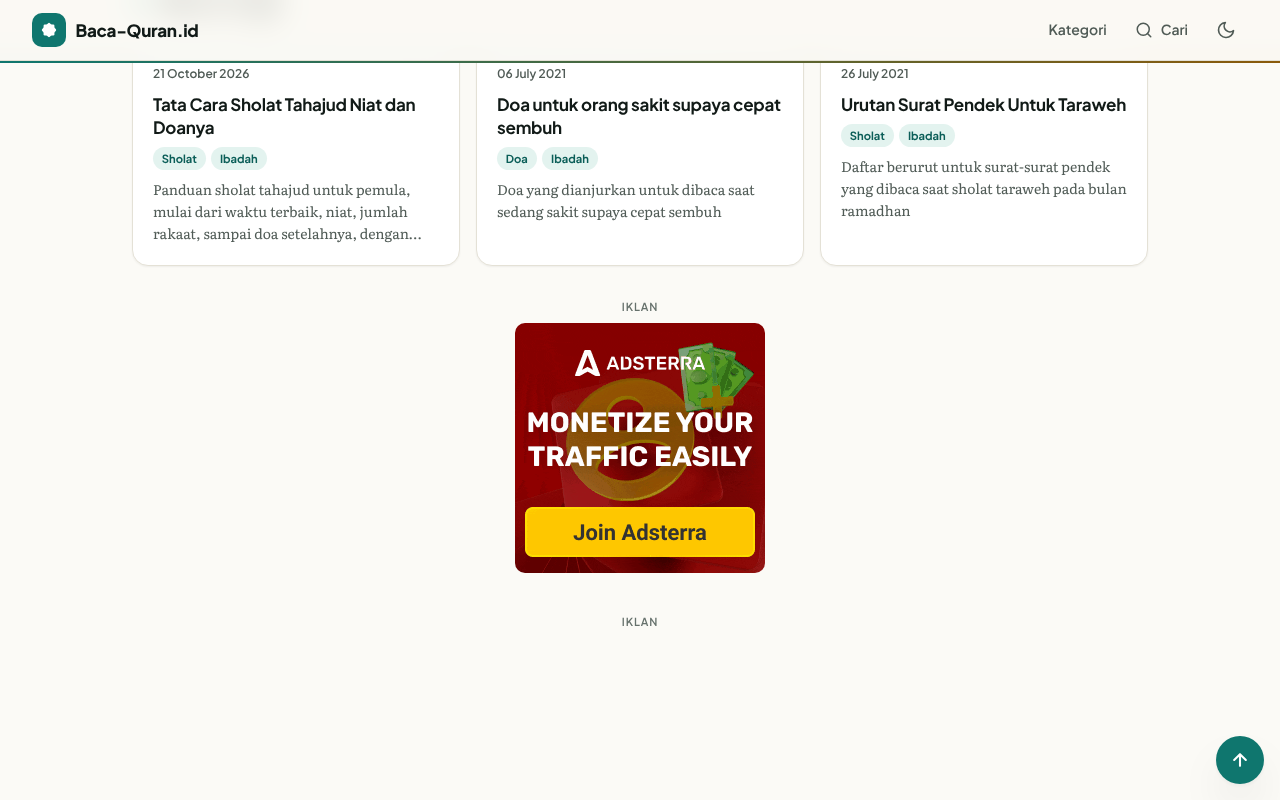
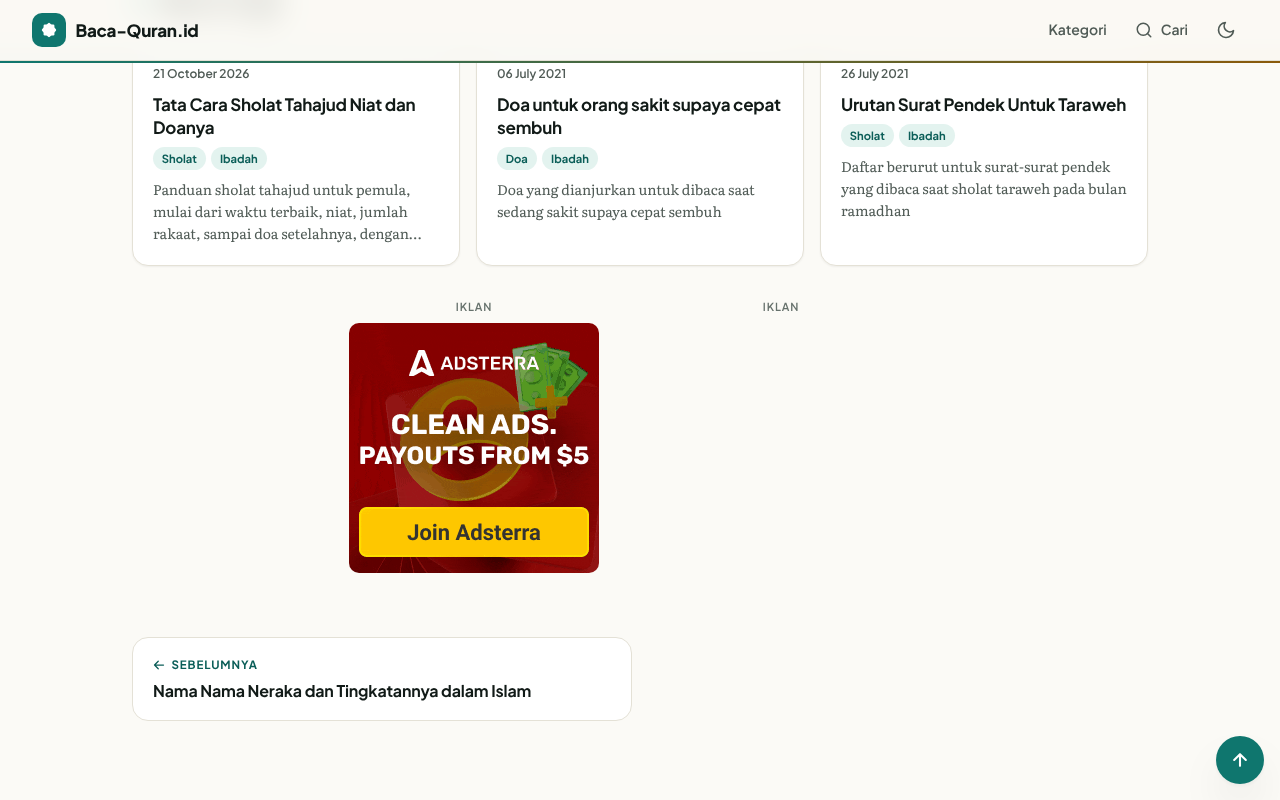
Add 300x250 and 160x600 Adsterra iframe units, remove asiafilm.org promo
- 300x250 sits next to the GIF banner at the end of articles
- 160x600 sits in the wide-screen sidebar
- Both run in sandboxed srcdoc iframes so atOptions cannot clash
- Remove the asiafilm.org promo card (config, component, CSS, docs)
- Refresh PR screenshots

Claude-Session: https://claude.ai/code/session_01RDTijWFK62R19iKJ9jHMqC

Changed region(s): [[0.25, 0.375, 0.625, 0.7188], [0.125, 0.8125, 0.4062, 0.875]]

diff --git a/src/components/PartnerAd.js b/src/components/PartnerAd.js
@@ -1,26 +1,40 @@
 import React from 'react';
 
-import { PARTNER_ADS } from '../config/ads';
+import { PARTNER_ADS, PARTNER_AD_SCRIPT_HOST } from '../config/ads';
 
 const REL = 'nofollow sponsored noopener noreferrer';
 
-// A plain-link partner ad, labelled "Iklan" so readers can tell it from content.
+// Document for an Adsterra iframe unit. The unit reads a global `atOptions`, so it
+// runs in its own iframe: it cannot clash with other ads or with page navigation.
+const unitDoc = ({ key, width, height }) =>
+  '<!doctype html><html><head><meta charset="utf-8"><style>html,body{margin:0;overflow:hidden}</style></head><body>' +
+  `<script>atOptions={'key':'${key}','format':'iframe','height':${height},'width':${width},'params':{}};</script>` +
+  `<script src="${PARTNER_AD_SCRIPT_HOST}${key}"></script>` +
+  '</body></html>';
+
+// A partner ad, labelled "Iklan" so readers can tell it from content.
 // - variant "banner": image banner with a fixed size (no layout shift)
-// - variant "promo": small text card
+// - variant "rect" / "tower": Adsterra iframe units (300x250 / 160x600)
 // Renders nothing when partner ads are disabled in src/config/ads.js.
 const PartnerAd = ({ variant = 'banner', className = '' }) => {
   if (!PARTNER_ADS.enabled) return null;
 
-  if (variant === 'promo') {
-    const { href, title, text, cta } = PARTNER_ADS.promo;
+  if (variant === 'rect' || variant === 'tower') {
+    const unit = variant === 'rect' ? PARTNER_ADS.rect : PARTNER_ADS.tower;
     return (
-      <aside className={`partner-ad partner-ad--promo ${className}`.trim()} aria-label="Iklan">
+      <aside className={`partner-ad partner-ad--${variant} ${className}`.trim()} aria-label="Iklan">
         <span className="ad-slot__label">Iklan</span>
-        <a className="partner-ad__card" href={href} target="_blank" rel={REL}>
-          <span className="partner-ad__title">{title}</span>
-          <span className="partner-ad__text">{text}</span>
-          <span className="partner-ad__cta">{cta} &rarr;</span>
-        </a>
+        <iframe
+          title="Iklan"
+          className="partner-ad__frame"
+          width={unit.width}
+          height={unit.height}
+          srcDoc={unitDoc(unit)}
+          loading="lazy"
+          scrolling="no"
+          sandbox="allow-scripts allow-popups allow-popups-to-escape-sandbox allow-top-navigation-by-user-activation"
+          referrerPolicy="no-referrer"
+        />
       </aside>
     );
   }

diff --git a/src/config/ads.js b/src/config/ads.js
@@ -33,7 +33,8 @@ export const MIN_H2_FOR_IN_ARTICLE = 4;
 // Partner ads (not AdSense). Plain links, so they need no script.
 // Set `enabled` to false to turn all of them off.
 //   banner  Adsterra referral banner (250x250 GIF), shown after "Baca Juga" on articles
-//   promo   Text card, shown in the sidebar on wide screens
+//   rect    Adsterra 300x250 iframe unit, next to the banner at the end of articles
+//   tower   Adsterra 160x600 iframe unit, shown in the sidebar on wide screens
 export const PARTNER_ADS = {
   enabled: true,
   banner: {
@@ -42,10 +43,10 @@ export const PARTNER_ADS = {
     alt: 'Adsterra',
     size: 250,
   },
-  promo: {
-    href: 'https://asiafilm.org/4/0d7154d073712416c9333fc307a7bd6d',
-    title: 'Rekomendasi tontonan',
-    text: 'Nonton film Asia pilihan, gratis dan tanpa daftar.',
-    cta: 'Lihat sekarang',
-  },
+  // Iframe units: each runs inside its own sandboxed iframe (see PartnerAd.js),
+  // so its global `atOptions` cannot clash with other ads or page navigation.
+  rect: { key: 'f16f565f3b38a7538684c37a4c5e738c', width: 300, height: 250 },
+  tower: { key: '6f39b7fd17f16841bec54d7e4f6c4355', width: 160, height: 600 },
 };
+
+export const PARTNER_AD_SCRIPT_HOST = 'https://bicea.org/22/';

diff --git a/src/styles/global.css b/src/styles/global.css
@@ -2535,32 +2535,34 @@ tbody tr:hover {
   border-radius: var(--radius);
 }
 
-.partner-ad__card {
+/* Banner and 300x250 side by side on wide screens, stacked on phones */
+.partner-ad-row {
   display: flex;
-  flex-direction: column;
-  gap: 0.25rem;
-  padding: 0.875rem 1rem;
-  font-family: var(--font-sans);
-  text-decoration: none;
-  color: inherit;
-  background: var(--surface);
-  border: 1px solid var(--border);
-  border-radius: var(--radius-lg);
+  flex-wrap: wrap;
+  justify-content: center;
+  align-items: flex-start;
+  gap: 1.5rem 2rem;
+  margin: 2rem 0;
 }
 
-.partner-ad__title {
-  font-size: 0.9375rem;
-  font-weight: 600;
+.partner-ad-row > .partner-ad {
+  margin: 0;
 }
 
-.partner-ad__text {
-  font-size: 0.8125rem;
-  color: var(--text-subtle);
+.partner-ad--rect,
+.partner-ad--tower {
+  text-align: center;
 }
 
-.partner-ad__cta {
-  font-size: 0.8125rem;
-  font-weight: 600;
+.partner-ad__frame {
+  display: block;
+  max-width: 100%;
+  margin: 0 auto;
+  border: 0;
+}
+
+.partner-ad--tower {
+  margin: 0;
 }
 
 /* The sidebar only exists on wide screens, so does its ad */

diff --git a/src/components/Sidebar.js b/src/components/Sidebar.js
@@ -70,7 +70,7 @@ const Sidebar = ({ tags = [], activeTag, limit = 14 }) => {
       )}
 
       <AdSlot slot={AD_SLOTS.sidebar} variant="sidebar" />
-      <PartnerAd variant="promo" className="partner-ad--sidebar" />
+      <PartnerAd variant="tower" className="partner-ad--sidebar" />
 
       <nav className="sidebar__card sidebar__card--accent" aria-labelledby="sidebar-main">
         <h2 className="sidebar__title" id="sidebar-main">

diff --git a/src/templates/blog-post.js b/src/templates/blog-post.js
@@ -265,7 +265,10 @@ const BlogPostTemplate = ({ data, pageContext, location }) => {
           </section>
         )}
 
-        <PartnerAd variant="banner" />
+        <div className="partner-ad-row">
+          <PartnerAd variant="banner" />
+          <PartnerAd variant="rect" />
+        </div>
 
         <AdSlot slot={AD_SLOTS.articleEnd} variant="multiplex" />
 

diff --git a/docs/ADS.md b/docs/ADS.md
@@ -36,17 +36,21 @@ Those are thin or utility pages.
 
 Besides AdSense, `PartnerAd` (`src/components/PartnerAd.js`) renders two plain-link
 ads configured in `PARTNER_ADS` in `src/config/ads.js` (`enabled: false` turns
-both off). They load no ad script.
+both off). The link ads load no ad script; the two iframe units (`rect`, `tower`)
+load Adsterra's script inside their own iframe.
 
-| Variant  | Where                                                  | Notes                                       |
-| -------- | ------------------------------------------------------ | ------------------------------------------- |
-| `banner` | Articles, after "Baca Juga", before the Multiplex unit | Adsterra referral GIF, 250x250, lazy-loaded |
-| `promo`  | Sidebar on home and tag pages, 1200px and wider        | Text card linking to a partner page         |
+| Variant  | Where                                                                            | Notes                                       |
+| -------- | -------------------------------------------------------------------------------- | ------------------------------------------- |
+| `banner` | Articles, after "Baca Juga", before the Multiplex unit                           | Adsterra referral GIF, 250x250, lazy-loaded |
+| `rect`   | Articles, next to the `banner` (side by side on wide screens, stacked on phones) | Adsterra 300x250 iframe unit                |
+| `tower`  | Sidebar, below the AdSense unit, 1200px and wider                                | Adsterra 160x600 iframe unit                |
 
 Links use `rel="nofollow sponsored noopener noreferrer"` and are labelled "Iklan".
-The `promo` link is an ad-network redirect, so its destination is chosen by that
-network. Check where it lands now and then, and turn it off if it sends readers
-somewhere unsuitable for this site.
+`rect` and `tower` run inside a sandboxed `srcdoc` iframe (see `PartnerAd.js`).
+The Adsterra code sets a global `atOptions` and loads a script, which would clash
+with other ads and with page navigation if it ran in the page. The iframe is
+sandboxed without `allow-same-origin`, so the ad cannot read the page. If fill
+rate looks low in production, the sandbox is the first thing to check.
 
 ## How `AdSlot` behaves
 
